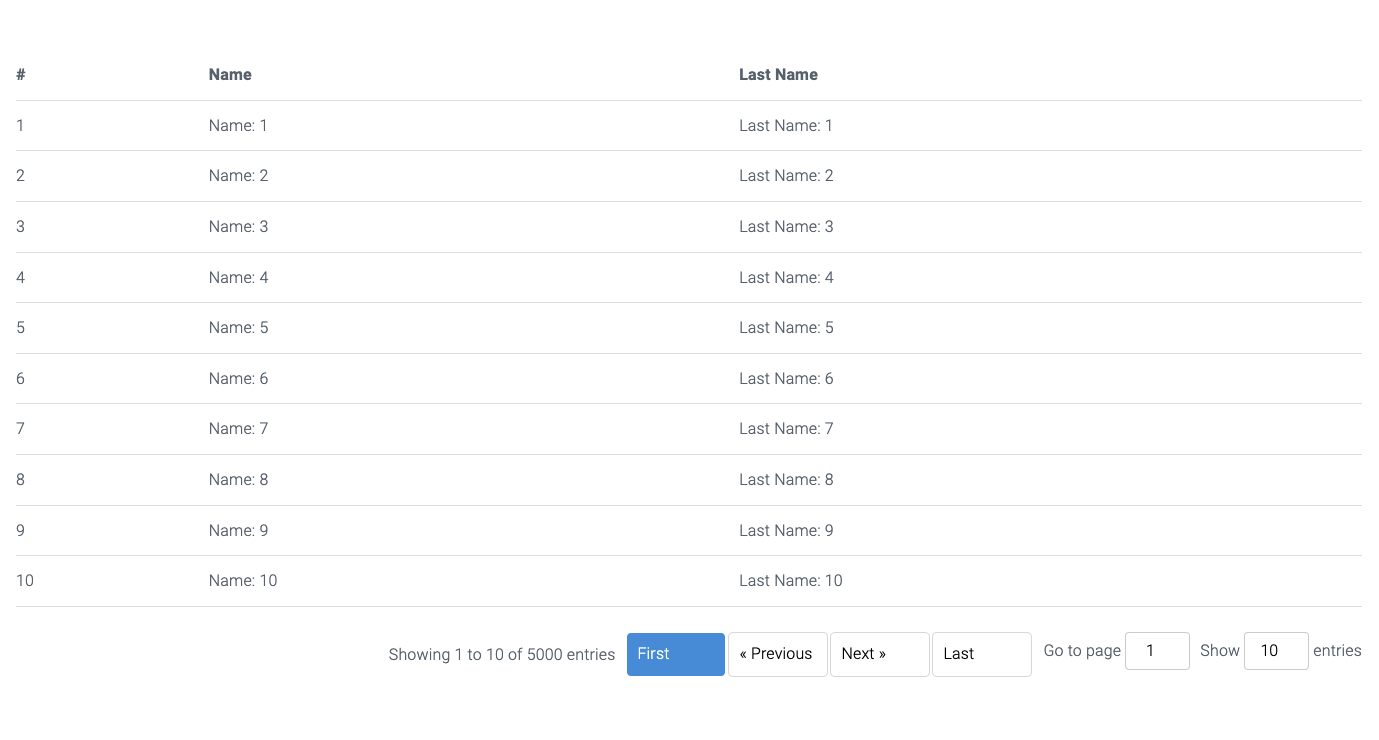
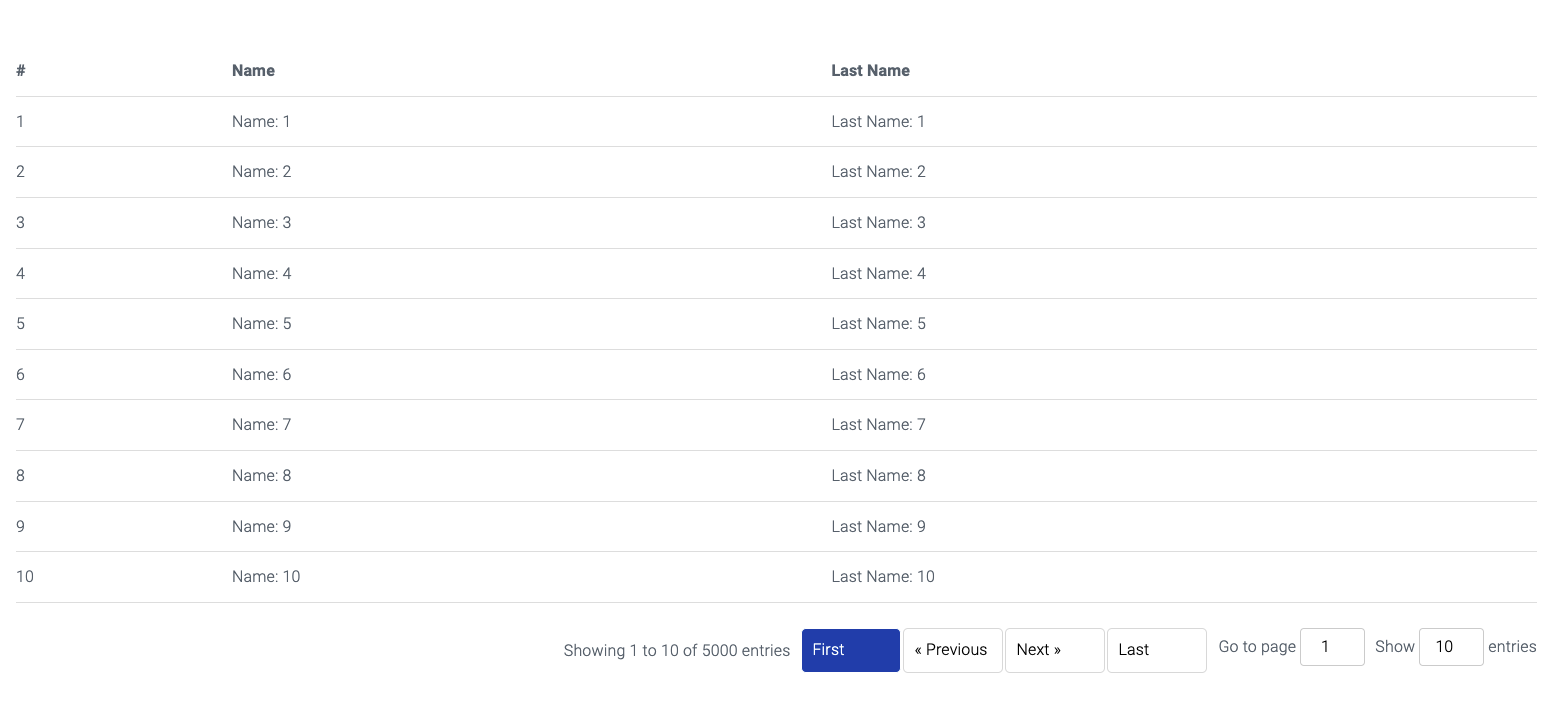
Updated screenshot from README

diff --git a/assets/css/simple_pagination.css b/assets/css/simple_pagination.css
@@ -2,7 +2,7 @@
   --pagination-button-color: black;
   --pagination-border-color: #ddd;
 
-  --pagination-button-active-background-color: #3498db;
+  --pagination-button-active-background-color: #0a48b3;
   --pagination-button-active-color: white;
   --pagination-border-active-color: white;
 
